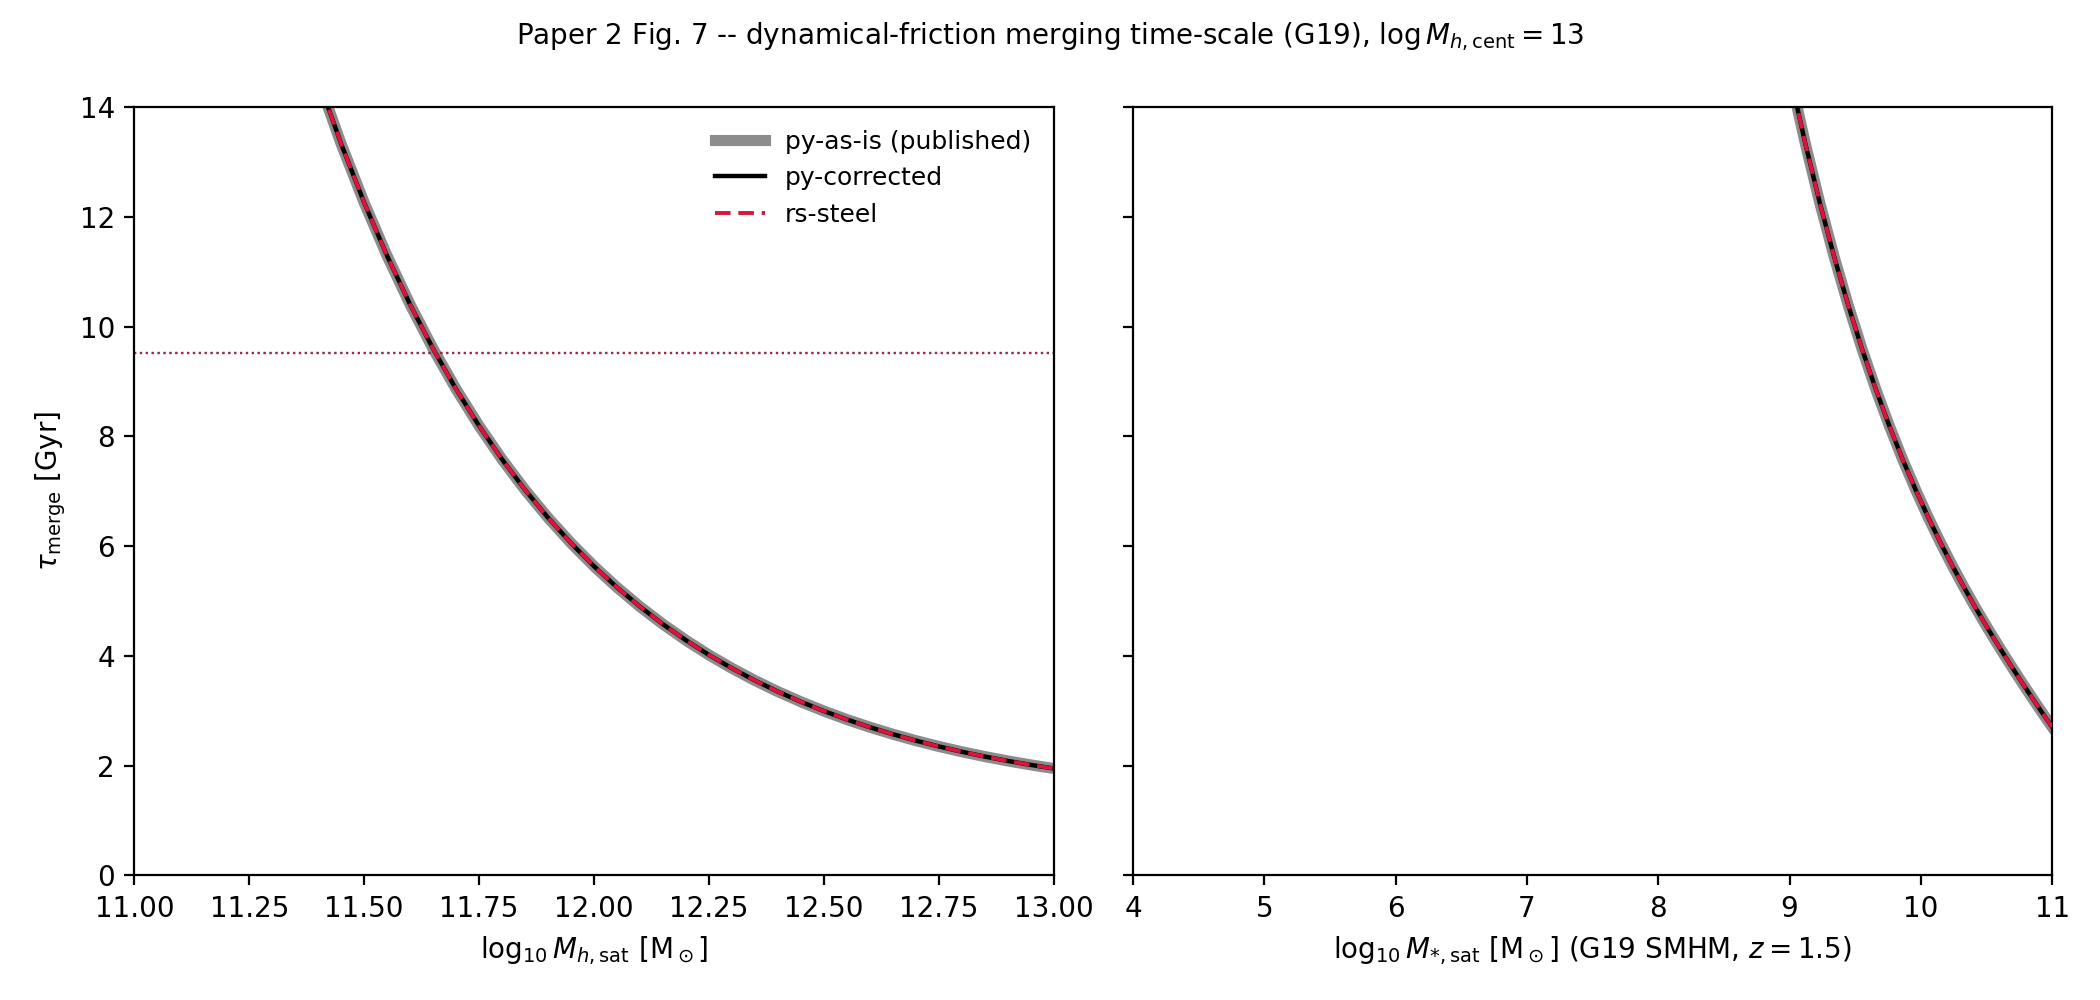
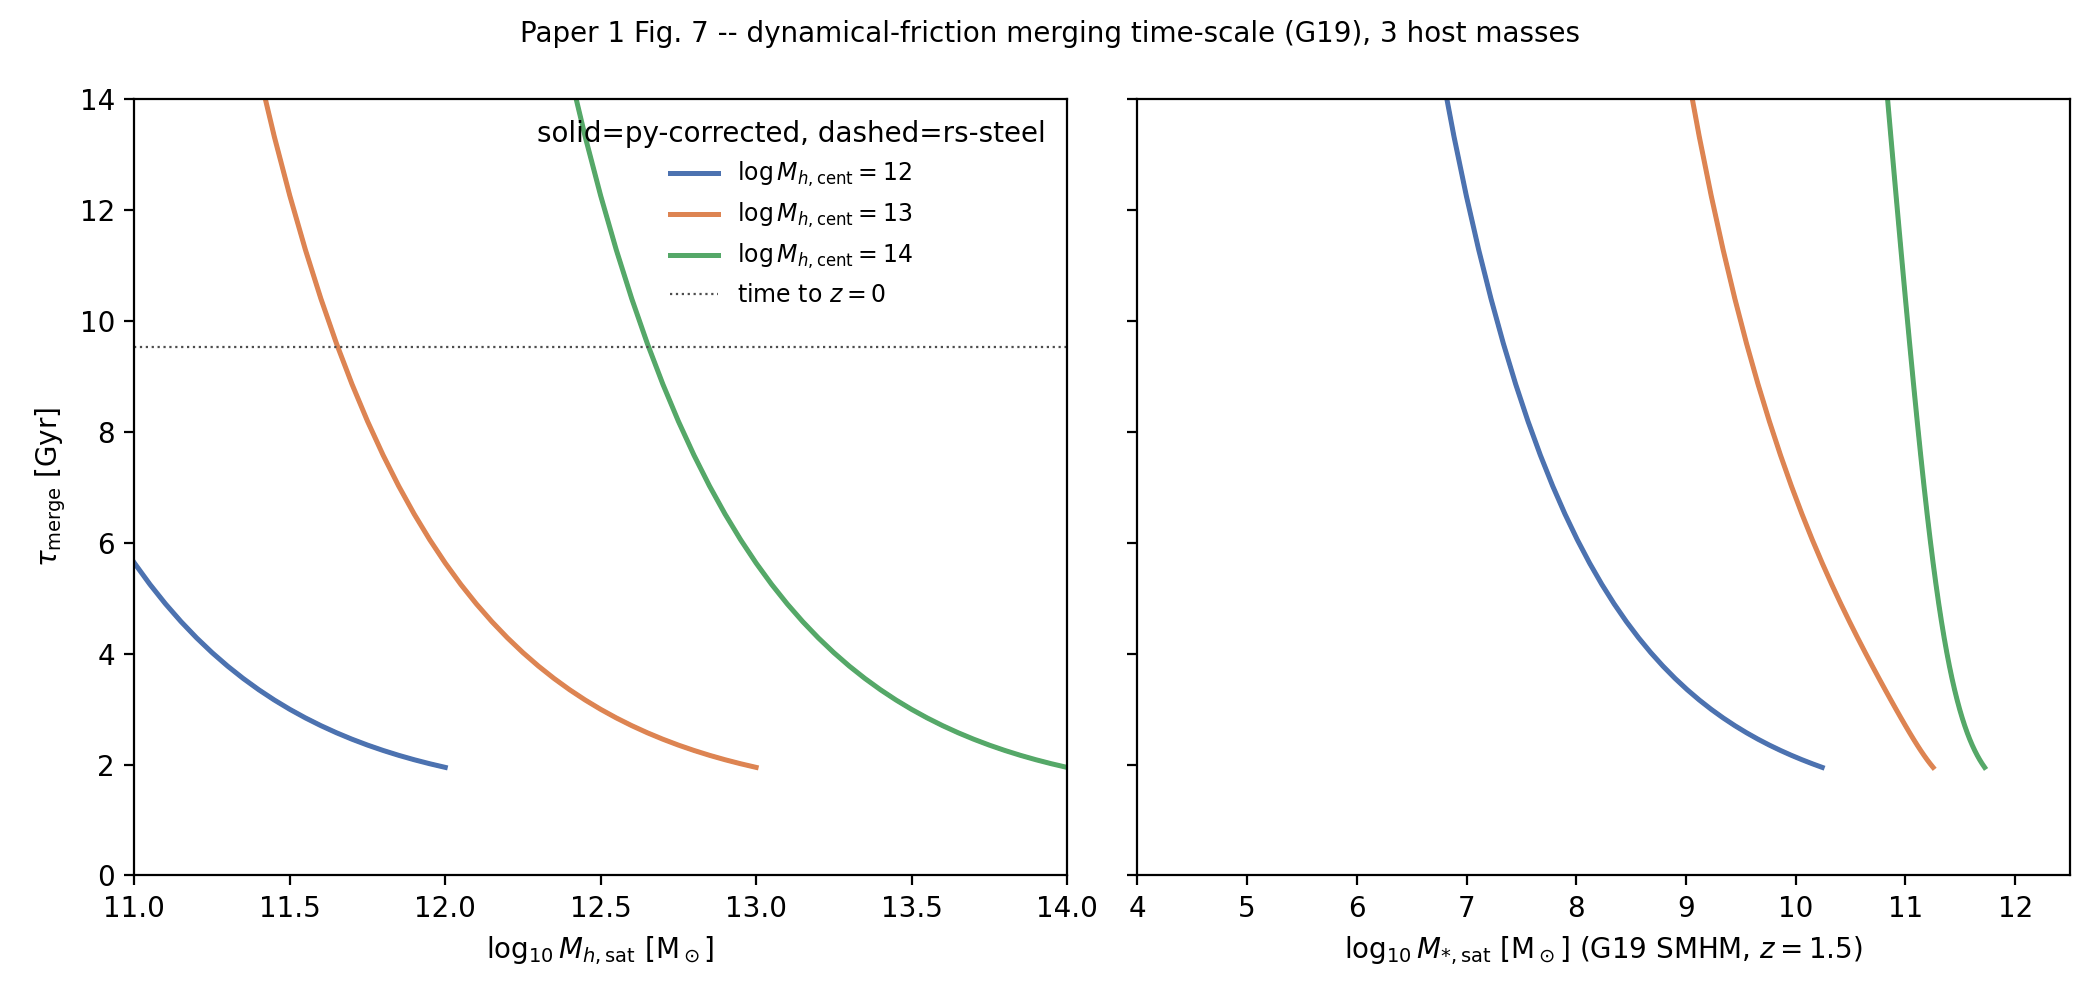
Fix Paper 1 Figs 6/7 labels; add Paper 2 Fig 10 (SFR-M* at z=0.5/1/2)
Fig 7 (merger timescale) now shows all 3 host masses (12/13/14) in
both panels with the "time to z=0" reference line, matching the real
figure's structure -- previously only host mass 13 was plotted despite
the dump already covering all three. Fig 6/7 titles and output
filenames corrected to "Paper 1" (they were still saying "Paper 2"
after the relabel, which would have overwritten the renamed files on
next run).

Paper 2 Fig 10 reuses the 5 central mass tracks already computed for
Fig 7, evaluated at z=0.5/1/2 instead of 0/1/2 -- no new run needed.

Also adds the pft_pairfraction_sweep.py and richness_grid_sweep.py
scripts (not yet run) that Fig 3(P3)/Figs 8-11(P1) rebuilds will use
once their underlying three-way runs, currently running in the
background, complete.

diff --git a/Scripts/Validation/pft_pairfraction_sweep.py b/Scripts/Validation/pft_pairfraction_sweep.py
@@ -1,0 +1,123 @@
+"""Reproduce the actual scientific result of Paper 3 (arXiv 2001.06017)
+Figure 3: pair fraction vs. redshift for each of the 13 single-coefficient
+SMHM perturbations (Table 2 / AbnMtch['PFT']), grouped into 4 panels
+(M, N, beta, gamma), each showing the PyMorph reference plus its
+z=0.1-altered and z-evolution +/- variants -- 4 lines per panel,
+matching the real figure's center-panel content. This is the piece
+Paper3_Fig3_PFTSensitivity.png (the outer SMHM-curve panels only) was
+missing: the actual pair-fraction-vs-z result, which needs a full
+SF+stripping run per variant (14 total: reference + 13 PFT flags),
+not just a closed-form SMHM evaluation.
+
+Uses the exact Return_PF_Plot logic from Scripts/CentralPostprocessing.py
+(PORT-FIX H1 applies), same pattern as results_from_run.py's
+plot_pair_fraction, via a throwaway OutputFolder redirect per run.
+
+Usage:
+    python Scripts/Validation/pft_pairfraction_sweep.py \
+        --work-root /tmp/steel-three-way \
+        --outdir Figures/PortValidation
+"""
+import argparse
+import os
+import shutil
+import sys
+
+import matplotlib
+
+matplotlib.use("Agg")
+import matplotlib.pyplot as plt
+import numpy as np
+
+REPO_ROOT = os.path.dirname(os.path.dirname(os.path.dirname(os.path.abspath(__file__))))
+
+PANELS = {
+    "M": ("M_PFT1", "M_PFT2", "M_PFT3"),
+    "N": ("N_PFT1", "N_PFT2", "N_PFT3"),
+    "beta": ("b_PFT1", "b_PFT2", "b_PFT3"),
+    "gamma": ("g_PFT1", "g_PFT2", "g_PFT3"),
+}
+VARIANT_COLOR = {"z0.1_alt": "#4C72B0", "zevo_plus": "#55A868", "zevo_minus": "#C44E52"}
+VARIANT_LABEL = {"z0.1_alt": "{p}_0.1,alt", "zevo_plus": "{p}_z,+", "zevo_minus": "{p}_z,-"}
+
+
+def _redirect_output_folder(run_dir, run_tuple, scratch_root):
+    dir_name = "RunParam_" + "".join(f"{p}_" for p in run_tuple)
+    fake_root = os.path.join(scratch_root, os.path.basename(run_dir) + "-outputfolder")
+    os.makedirs(fake_root, exist_ok=True)
+    link = os.path.join(fake_root, dir_name)
+    if os.path.islink(link) or os.path.exists(link):
+        os.remove(link) if os.path.islink(link) else shutil.rmtree(link)
+    os.symlink(os.path.abspath(run_dir), link)
+    return fake_root + "/"
+
+
+def pair_fraction_vs_z(run_dir, run_tuple, scratch_root, CP):
+    CP.F.OutputFolder = _redirect_output_folder(run_dir, run_tuple, scratch_root)
+    d = CP.PairFractionData(run_tuple)
+    z, pf, _, _ = d.Return_PF_Plot(d.SMF_interp, Parent_Cut=11, UpperLimit=True)
+    z = np.asarray(z, dtype=float)
+    pf = np.asarray(pf, dtype=float)
+    mask = np.isfinite(pf) & (z <= 3.5)
+    return z[mask], pf[mask]
+
+
+def main():
+    ap = argparse.ArgumentParser()
+    ap.add_argument("--work-root", required=True, help="dir containing three_way_pft_<name>/{py-corrected,rs-steel}-1")
+    ap.add_argument("--outdir", default="Figures/PortValidation")
+    args = ap.parse_args()
+
+    sys.path.insert(0, REPO_ROOT)
+    from Scripts import CentralPostprocessing as CP
+
+    os.makedirs(args.outdir, exist_ok=True)
+    scratch = os.path.join(args.outdir, ".pft_scratch")
+    os.makedirs(scratch, exist_ok=True)
+
+    def run_dirs(name):
+        base = os.path.join(args.work_root, f"three_way_pft_{name}")
+        return os.path.join(base, "py-corrected-1"), os.path.join(base, "rs-steel-1")
+
+    ref_py, ref_rs = run_dirs("reference")
+    ref_tuple = ("1.0", True, True, True, "CE", "G19_SE")
+
+    fig, axes = plt.subplots(1, 4, figsize=(18, 4.6), sharey=True)
+    for ax, (panel, flags) in zip(axes, PANELS.items()):
+        for leg_dir, leg_tuple, ls, lw, ref_kwargs in [
+            (ref_py, ref_tuple, "-", 1.8, dict(color="0.35", label="PyMorph (reference)")),
+        ]:
+            z, pf = pair_fraction_vs_z(leg_dir, leg_tuple, scratch, CP)
+            ax.plot(z, pf, ls=ls, lw=lw, **ref_kwargs)
+        z, pf = pair_fraction_vs_z(ref_rs, ref_tuple, scratch, CP)
+        ax.plot(z, pf, color="0.35", lw=1.3, ls="--", dashes=(4, 2))
+
+        for variant, flag in zip(("z0.1_alt", "zevo_plus", "zevo_minus"), flags):
+            color = VARIANT_COLOR[variant]
+            py_dir, rs_dir = run_dirs(flag)
+            variant_tuple = ("1.0", True, True, True, "CE", flag)
+            z, pf = pair_fraction_vs_z(py_dir, variant_tuple, scratch, CP)
+            ax.plot(z, pf, color=color, lw=1.8, ls="-", label=VARIANT_LABEL[variant].format(p=panel))
+            z, pf = pair_fraction_vs_z(rs_dir, variant_tuple, scratch, CP)
+            ax.plot(z, pf, color=color, lw=1.3, ls="--", dashes=(4, 2))
+
+        ax.set_title(panel, fontsize=11)
+        ax.set_xlabel("redshift")
+        ax.set_xlim(0, 3.5)
+        ax.legend(loc="upper right", frameon=False, fontsize=7.5)
+
+    axes[0].set_ylabel("pair fraction")
+    fig.suptitle(
+        "Paper 3 Fig. 3 style -- pair fraction vs z, SMHM parameter sensitivity (solid=py-corrected, dashed=rs-steel)",
+        fontsize=10.5,
+    )
+    fig.tight_layout(rect=[0, 0, 1, 0.94])
+    out = os.path.join(args.outdir, "Paper3_Fig3_PairFractionSensitivity.png")
+    fig.savefig(out, dpi=200)
+    plt.close(fig)
+    shutil.rmtree(scratch, ignore_errors=True)
+    print("wrote:", out)
+
+
+if __name__ == "__main__":
+    main()

diff --git a/Scripts/Validation/paper2_figures.py b/Scripts/Validation/paper2_figures.py
@@ -164,20 +164,22 @@ def combine_and_plot(args):
     ax.set_ylim(0.8, 3.7)
     ax.legend(loc="upper right", frameon=False, fontsize=9)
     ax.set_title(
-        r"Paper 2 Fig. 6 -- quenching delay time-scale (G19), $\log M_{h,\mathrm{cent}}=10$",
+        r"Paper 1 Fig. 6 -- quenching delay time-scale (G19), $\log M_{h,\mathrm{cent}}=10$",
         fontsize=10,
     )
     fig.tight_layout()
-    out6 = os.path.join(args.outdir, "Paper2_Fig6_Quenching.png")
+    out6 = os.path.join(args.outdir, "Paper1_Fig6_Quenching.png")
     fig.savefig(out6, dpi=200)
     plt.close(fig)
 
     # --- Figure 7 ---
-    # One host mass (13, the middle of the paper's three) -- no known
+    # All three host masses the paper shows (12, 13, 14) -- no known
     # correction touches DynamicalFriction/DynamicalTime_Fun, so unlike
     # Figure 6 this is a clean three-way overlap: the point is fidelity,
-    # not a bug story.
-    fig7_host = 13.0
+    # not a bug story. py-as-is omitted from the plot for clarity (it's
+    # visually identical to py-corrected here); HOST_MASSES_FIG7 in the
+    # dump already covers all three.
+    HOST_COLORS = {12.0: "#4C72B0", 13.0: "#DD8452", 14.0: "#55A868"}
 
     def load_merger(path):
         with open(path) as fh:
@@ -190,38 +192,40 @@ def combine_and_plot(args):
         })
         return df, t0
 
-    m = {
-        "py-as-is": load_merger(args.asis_fig7),
-        "py-corrected": load_merger(args.corrected_fig7),
-        "rs-steel": load_merger(args.rust_fig7),
-    }
+    corrected_df, t0 = load_merger(args.corrected_fig7)
+    rust_df, _ = load_merger(args.rust_fig7)
+
     fig, axes = plt.subplots(1, 2, figsize=(10.5, 5.0), sharey=True)
-    for leg, (df, _) in m.items():
-        style = LEG_STYLE[leg]
-        sub = df[np.isclose(df["host_mass"], fig7_host)].sort_values("log_subhalo_mass")
-        axes[0].plot(sub["log_subhalo_mass"], sub["t_merge"], **style)
-        axes[1].plot(sub["log_sat_mass"], sub["t_merge"], **{k: v for k, v in style.items() if k != "label"})
-    for leg, (_, t0) in m.items():
-        axes[0].axhline(t0, color=LEG_STYLE[leg]["color"], lw=0.8, ls=":", alpha=0.6)
+    for host_mass in HOST_MASSES_FIG7:
+        color = HOST_COLORS[host_mass]
+        for df, ls, lw, label in [(corrected_df, "-", 1.8, rf"$\log M_{{h,\mathrm{{cent}}}}={host_mass:g}$"),
+                                   (rust_df, "--", 1.3, None)]:
+            sub = df[np.isclose(df["host_mass"], host_mass)].sort_values("log_subhalo_mass")
+            kwargs = dict(color=color, ls=ls, lw=lw, label=label)
+            if ls == "--":
+                kwargs["dashes"] = (4, 2)
+            axes[0].plot(sub["log_subhalo_mass"], sub["t_merge"], **kwargs)
+            axes[1].plot(sub["log_sat_mass"], sub["t_merge"], **{k: v for k, v in kwargs.items() if k != "label"})
+    axes[0].axhline(t0, color="0.3", lw=0.8, ls=":", label="time to $z=0$")
 
     axes[0].set_xlabel(r"$\log_{10} M_{h,\mathrm{sat}}\ [\mathrm{M}_\odot]$")
     axes[1].set_xlabel(r"$\log_{10} M_{*,\mathrm{sat}}\ [\mathrm{M}_\odot]$ (G19 SMHM, $z=1.5$)")
     axes[0].set_ylabel(r"$\tau_\mathrm{merge}$ [Gyr]")
     axes[0].set_ylim(0, 14)
-    axes[0].set_xlim(11, 13)
-    axes[1].set_xlim(4, 11)
-    axes[0].legend(loc="upper right", frameon=False, fontsize=9)
+    axes[0].set_xlim(11, 14)
+    axes[1].set_xlim(4, 12.5)
+    axes[0].legend(loc="upper right", frameon=False, fontsize=8.5,
+                    title="solid=py-corrected, dashed=rs-steel")
     fig.suptitle(
-        r"Paper 2 Fig. 7 -- dynamical-friction merging time-scale (G19), $\log M_{h,\mathrm{cent}}=13$",
+        r"Paper 1 Fig. 7 -- dynamical-friction merging time-scale (G19), 3 host masses",
         fontsize=10,
     )
     fig.tight_layout()
-    out7 = os.path.join(args.outdir, "Paper2_Fig7_MergerTimescale.png")
+    out7 = os.path.join(args.outdir, "Paper1_Fig7_MergerTimescale.png")
     fig.savefig(out7, dpi=200)
     plt.close(fig)
 
-    t0s = {leg: t0 for leg, (_, t0) in m.items()}
-    print("time_to_z0 [Gyr]:", ", ".join(f"{k}={v:.4f}" for k, v in t0s.items()))
+    print("time_to_z0 [Gyr]:", t0)
     print("wrote:", out6)
     print("wrote:", out7)
 

diff --git a/Scripts/Validation/richness_grid_sweep.py b/Scripts/Validation/richness_grid_sweep.py
@@ -1,0 +1,73 @@
+"""Reproduce the real 3x2-panel structure shared by Paper 1 (arXiv
+1812.00015) Figs. 9, 11, and 15: satellite number density (top row)
+and fractional distribution (bottom row, eq. 16: F(dMh) = N(>x)|dMh /
+N(>x)) vs. parent halo mass, for 3 increasing stellar-mass cuts
+(columns), overlaid across several STEEL configs. One colour per
+config, solid/dashed for py-corrected/rs-steel, same convention as
+richness_config_sweep.py (which only builds a single top-row panel).
+
+Usage:
+    python Scripts/Validation/richness_grid_sweep.py \
+        --run "f_tdyn=1.0+evo:/path/py-corrected-1:/path/rs-steel-1" \
+        --run "f_tdyn=inf+evo:/path/.../py-corrected-1:/path/.../rs-steel-1" \
+        --sm-cuts 10.0 10.5 11.0 \
+        --out Figures/PortValidation/Paper1_Fig9_Grid.png
+"""
+import argparse
+import os
+
+import matplotlib
+
+matplotlib.use("Agg")
+import matplotlib.pyplot as plt
+import numpy as np
+
+COLORS = ["#4C72B0", "#DD8452", "#55A868", "#C44E52"]
+
+
+def main():
+    ap = argparse.ArgumentParser()
+    ap.add_argument("--run", action="append", required=True, help="label:py_corrected_dir:rs_steel_dir")
+    ap.add_argument("--sm-cuts", type=float, nargs=3, default=[10.0, 10.5, 11.0])
+    ap.add_argument("--out", required=True)
+    ap.add_argument("--title", default="satellite distributions, config sweep (G19)")
+    args = ap.parse_args()
+
+    os.makedirs(os.path.dirname(args.out), exist_ok=True)
+    fig, axes = plt.subplots(2, 3, figsize=(14, 8), sharex="col")
+
+    for i, spec in enumerate(args.run):
+        label, py_dir, rs_dir = spec.split(":", 2)
+        color = COLORS[i % len(COLORS)]
+        for leg_dir, ls, lw, zorder in [(py_dir, "-", 1.8, 3), (rs_dir, "--", 1.4, 4)]:
+            host_mass = np.load(os.path.join(leg_dir, "Raw_Richness_AvaHaloMass.npy"))[0]
+            sat_mass = np.load(os.path.join(leg_dir, "Raw_Richness_Surviving_Sat_SMF_MassRange.npy"))
+            cube = np.load(os.path.join(leg_dir, "Raw_Richness_Surviving_Sat_SMF_Weighting_highz.npy"))
+            for col, cut in enumerate(args.sm_cuts):
+                cut_bin = np.searchsorted(sat_mass, cut)
+                n_above = np.nansum(cube[0, :, cut_bin:], axis=1)
+                mask = n_above > 0
+                kwargs = dict(color=color, ls=ls, lw=lw, zorder=zorder, label=label if ls == "-" else None)
+                if ls == "--":
+                    kwargs["dashes"] = (4, 2)
+                axes[0, col].plot(host_mass[mask], np.log10(n_above[mask]), **kwargs)
+
+                total = np.nansum(n_above)
+                frac = n_above / total if total > 0 else n_above
+                axes[1, col].plot(host_mass[mask], frac[mask], **{**kwargs, "label": None})
+
+    for col, cut in enumerate(args.sm_cuts):
+        axes[0, col].set_title(rf"$M_{{*,\mathrm{{sat}}}}>10^{{{cut:g}}}$", fontsize=10)
+        axes[1, col].set_xlabel(r"$\log_{10} M_{h,\mathrm{cent}}\ [\mathrm{M}_\odot]$")
+    axes[0, 0].set_ylabel(r"$\log_{10}\phi\ [\mathrm{Mpc}^{-3}]$")
+    axes[1, 0].set_ylabel("Fraction")
+    axes[0, 0].legend(loc="upper right", frameon=False, fontsize=8, title="solid=py-corrected, dashed=rs-steel")
+    fig.suptitle(args.title, fontsize=11)
+    fig.tight_layout(rect=[0, 0, 1, 0.95])
+    fig.savefig(args.out, dpi=200)
+    plt.close(fig)
+    print("wrote:", args.out)
+
+
+if __name__ == "__main__":
+    main()

diff --git a/Scripts/Validation/sfr_mstar_relation.py b/Scripts/Validation/sfr_mstar_relation.py
@@ -1,4 +1,5 @@
-"""Reproduce Paper 1 Fig. 7's content: the star-forming main-sequence
+"""Reproduce Paper 2 (arXiv 1910.08417, MNRAS 491) Fig. 7/10's content:
+the star-forming main-sequence
 SFR-M* relation at several redshifts, built from the same central mass
 tracks mass_tracks.py computes (one track per target z=0 stellar mass,
 in-situ-only SFR history, G19_DPL). Each track's in-situ mass at a
@@ -58,6 +59,7 @@ def main():
     ap.add_argument("--rust-glob", required=True)
     ap.add_argument("--redshifts", type=float, nargs="+", default=[0.0, 1.0, 2.0])
     ap.add_argument("--out", required=True)
+    ap.add_argument("--title", default="Paper 2 Fig. 7 style -- SFR-M* main sequence from central tracks (G19_DPL)")
     args = ap.parse_args()
 
     import matplotlib
@@ -95,7 +97,7 @@ def main():
     ax.set_xlabel(r"$\log_{10} M_*\ [\mathrm{M}_\odot]$")
     ax.set_ylabel(r"$\log_{10}\mathrm{SFR}\ [\mathrm{M}_\odot\,\mathrm{yr}^{-1}]$")
     ax.legend(loc="upper left", frameon=False, fontsize=9, title="solid=py-corrected\ndashed=rs-steel")
-    ax.set_title("Paper 1 Fig. 7 style -- SFR-M* main sequence from central tracks (G19_DPL)", fontsize=10)
+    ax.set_title(args.title, fontsize=10)
     fig.tight_layout()
     fig.savefig(args.out, dpi=200)
     plt.close(fig)

diff --git a/docs/RESULTS_REPRODUCTION.md b/docs/RESULTS_REPRODUCTION.md
@@ -102,7 +102,7 @@ Until each of these is rebuilt, the affected rows below are marked
 | 4 | SMHM (G18) vs B18/S17/M13 + central SMF vs SDSS | fn + data | **left panel approximate** (`SMHM_Relation.png` uses G19_SE, not the G18 preset this figure actually uses -- same functional form, different coefficients; B18/S17/M13 and right-panel central SMF omitted) |
 | 5 | % satellites by accretion redshift | run | **done** (`Paper1_Fig5_AccretionRedshift.png`) |
 | 6 | Quenching delay time-scale (Wetzel+F16) | fn | **done** (`Paper1_Fig6_Quenching.png`) |
-| 7 | Dynamical-friction merging time-scale, 2-panel (vs M_h,sat and M*,sat), 3 host masses | fn | **built, structure not verified against the real 2-panel/3-host-mass layout** (`Paper1_Fig7_MergerTimescale.png`) -- needs a check against the actual figure |
+| 7 | Dynamical-friction merging time-scale, 2-panel (vs M_h,sat and M*,sat), 3 host masses | fn | **done** (`Paper1_Fig7_MergerTimescale.png`: both panels, all 3 host masses (12/13/14), "time to z=0" reference line; py-corrected/rs-steel overlap exactly, as expected -- no correction touches this function) |
 | 8 | SSMF, frozen model: f_tdyn={1.0,inf} x z-evo={on,off}, vs SDSS | run + data | **pending rebuild** -- old file (`Paper1_Fig8_FrozenVsEvolving_WRONG_CONTENT.png`) reproduces the wrong comparison (SF on/off, not f_tdyn/z-evo); new frozen-model runs in progress |
 | 9 | Satellite distributions, frozen model, same f_tdyn/z-evo axis, 3 mass cuts x 2 rows | run + data | **pending rebuild** -- not built under the correct axis yet; only one line/cut exists under the old (wrong) framing |
 | 10 | SSMF, frozen model, f_tdyn=0.5/1.0/2.5, vs SDSS | run + data | **pending rebuild** -- old file (`Paper1_Fig10_TdynSweep_WRONG_CONFIG.png`) used the SF+stripping-on config instead of frozen; new frozen f_tdyn sweep runs in progress |
@@ -125,7 +125,7 @@ Until each of these is rebuilt, the affected rows below are marked
 | 7 | SFR-M* relation: double-power-law fits at z=0.1,1,2,3,5 + extracted track data points + 3 population tracks overlaid | run | **simplified main-sequence-only version** (`Paper2_Fig7_SFR_Mstar.png`: SFR recomputed from 5 central tracks at z=0/1/2, no fit-curve/data-point distinction, no population-track overlay; not the real figure's structure) |
 | 8 | Mass tracks (cmodel), same 3-row structure as Fig. 6 | run | **not built** -- `MassTrack.png` uses G19_SE (PyMorph) only, no cmodel variant, same partial coverage as Fig. 6 |
 | 9 | sSFR of satellites/centrals vs SDSS, 3 mass bins (10-10.5, 10.5-11.3, 11.3-12.5) | run + data | **satellite side only, mass bins approximate** (`Paper2_Fig9_sSFR.png`: 3 mass bins but not the paper's exact ranges; central-galaxy dynamical-quenching line and SDSS overlay not built; sparse-bin noise is small-number statistics, not a port defect) |
-| 10 | SFR-M* relation at z=0.5/1/2 vs Leja+2019 | run + data | **not built** |
+| 10 | SFR-M* relation at z=0.5/1/2 vs Leja+2019 | run + data | **done** (`Paper2_Fig10_SFR_Mstar_z.png`: reuses the same 5 central tracks as Fig. 7, evaluated at z=0.5/1/2 instead of 0/1/2; Leja+2019 overlay omitted) |
 | 11 | Elliptical fraction vs stellar mass, 3 redshifts, vs SDSS T-Type | run + data | **needs re-investigation** -- previously marked infeasible based on `P_Elliptical` (confirmed dead in `STEEL.py`'s main loop), but the real Fig. 11 is a *post-processing* computation (major-merger-fraction from central mass tracks, mass ratio > 1/3 since z=3), not that array. May be buildable with the same mass-track machinery as Figs. 6/7/8. |
 
 ## Paper 3 (galaxy pair fractions, arXiv 2001.06017)
